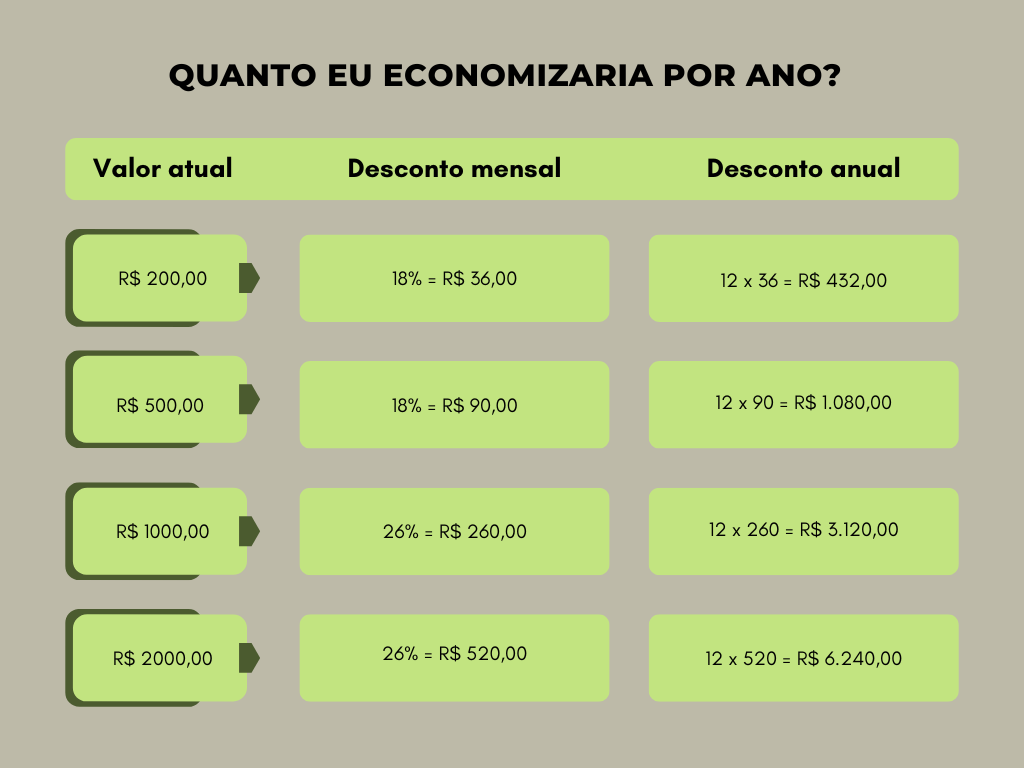
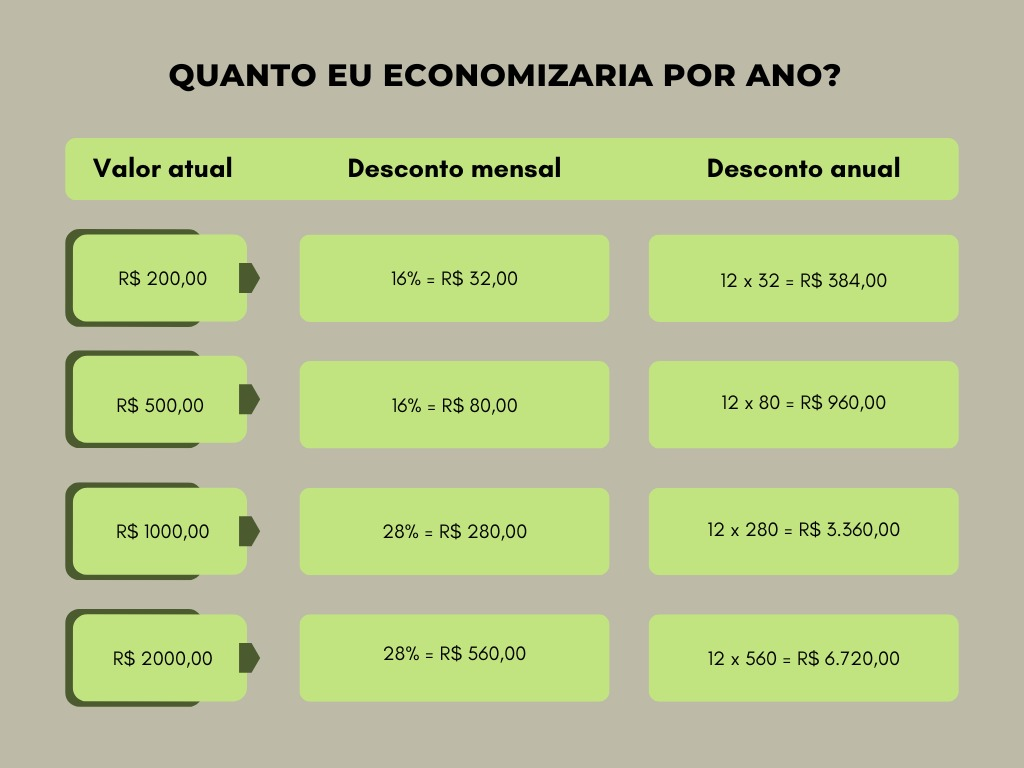
ajustes nas cores do faq

diff --git a/index.html b/index.html
@@ -197,7 +197,7 @@
         <div class="main">
 
             <div class="box header">
-                <h1>Reduza sua conta de energia de 18% a 26% sem investir nada!</h1>
+                <h1>Reduza sua conta de energia de 16% a 28% sem investir nada!</h1>
                 <p>Energia solar por assinatura, sem obras, sem placas e 100% digital.</p>
             </div>
 
